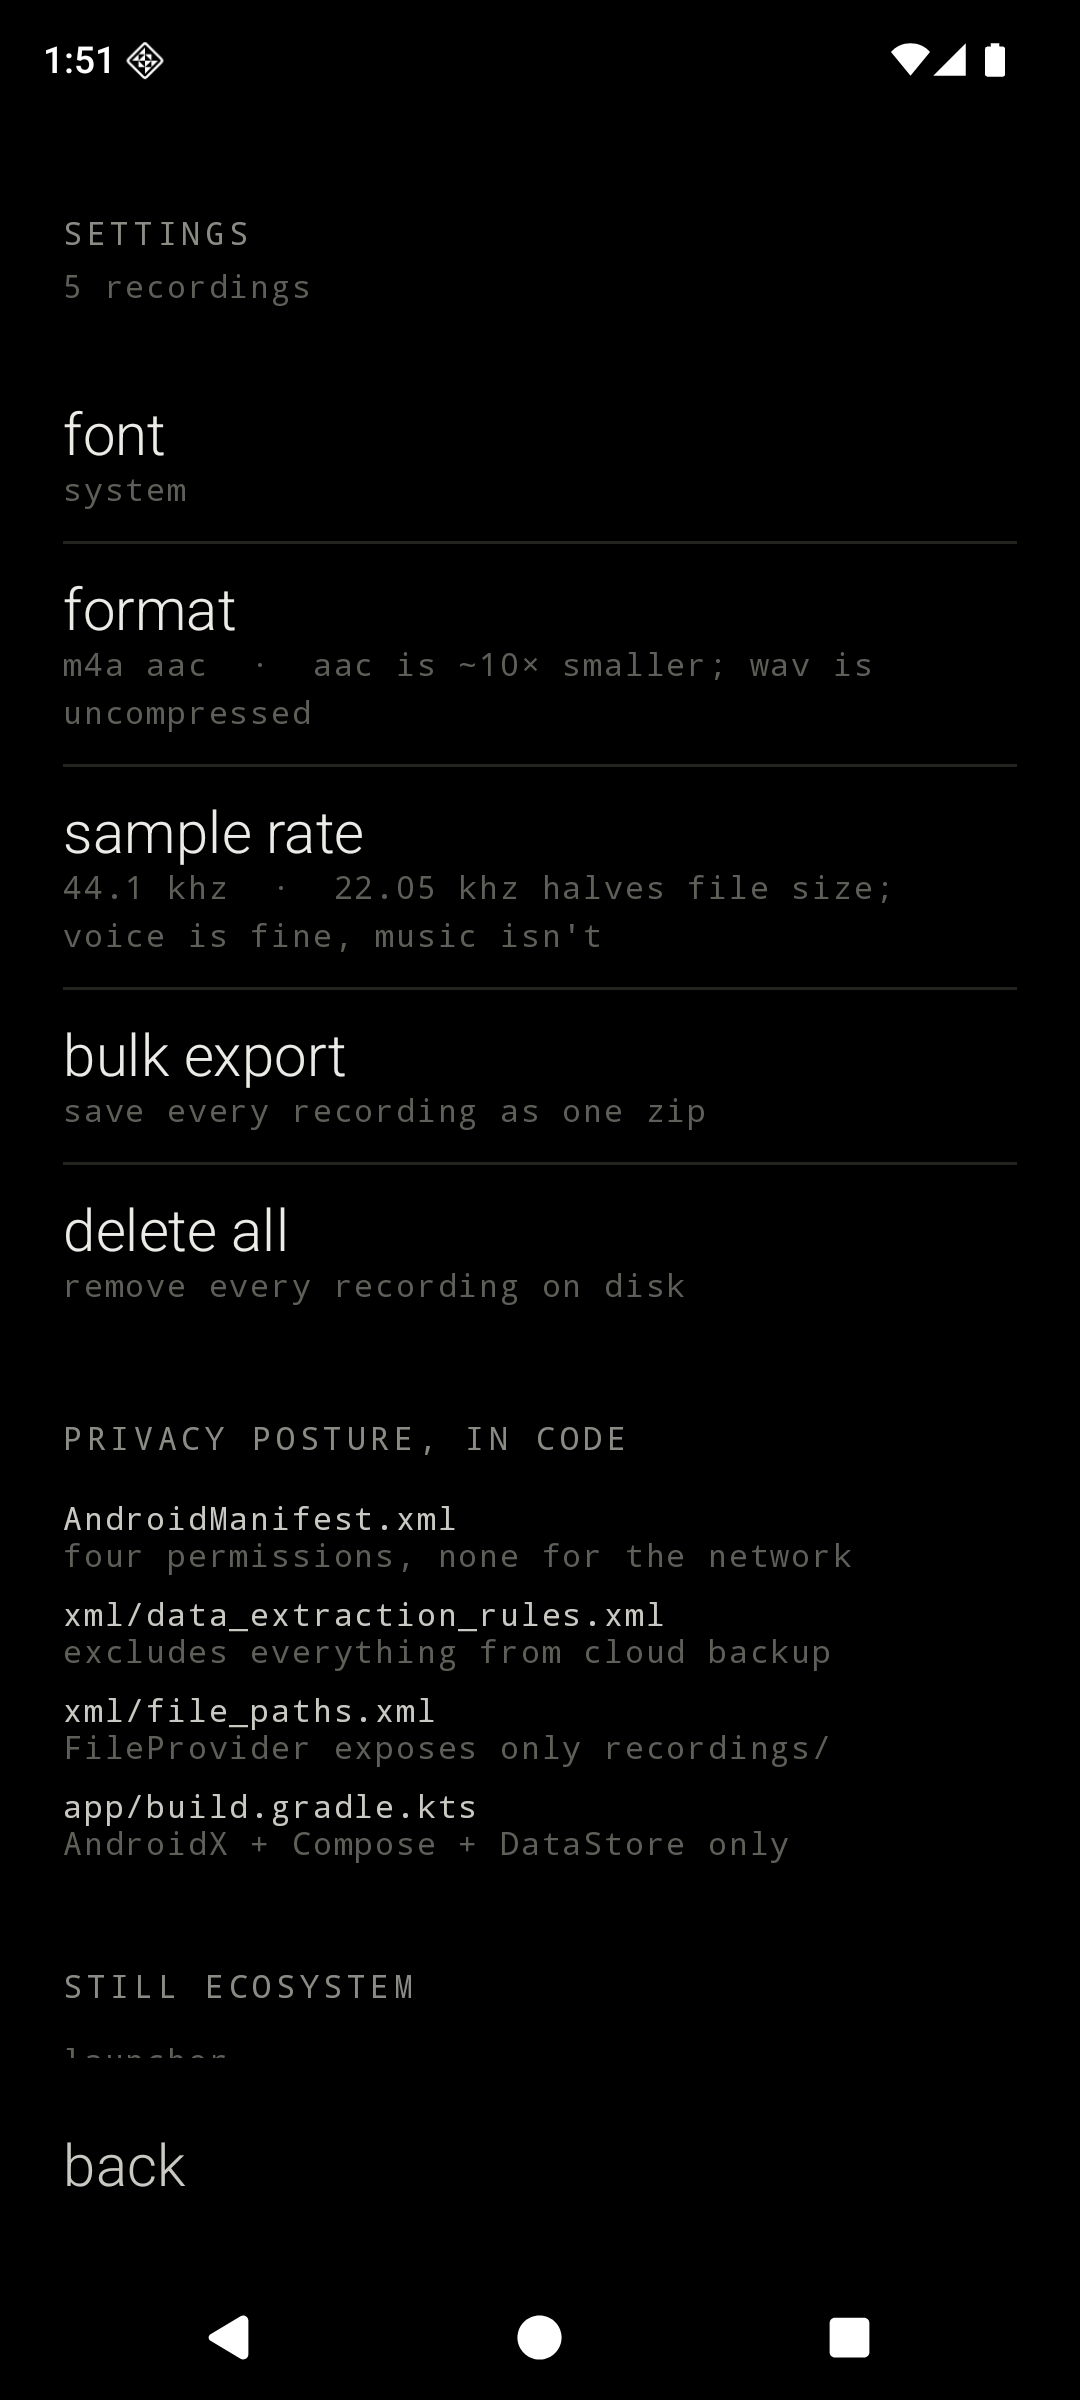
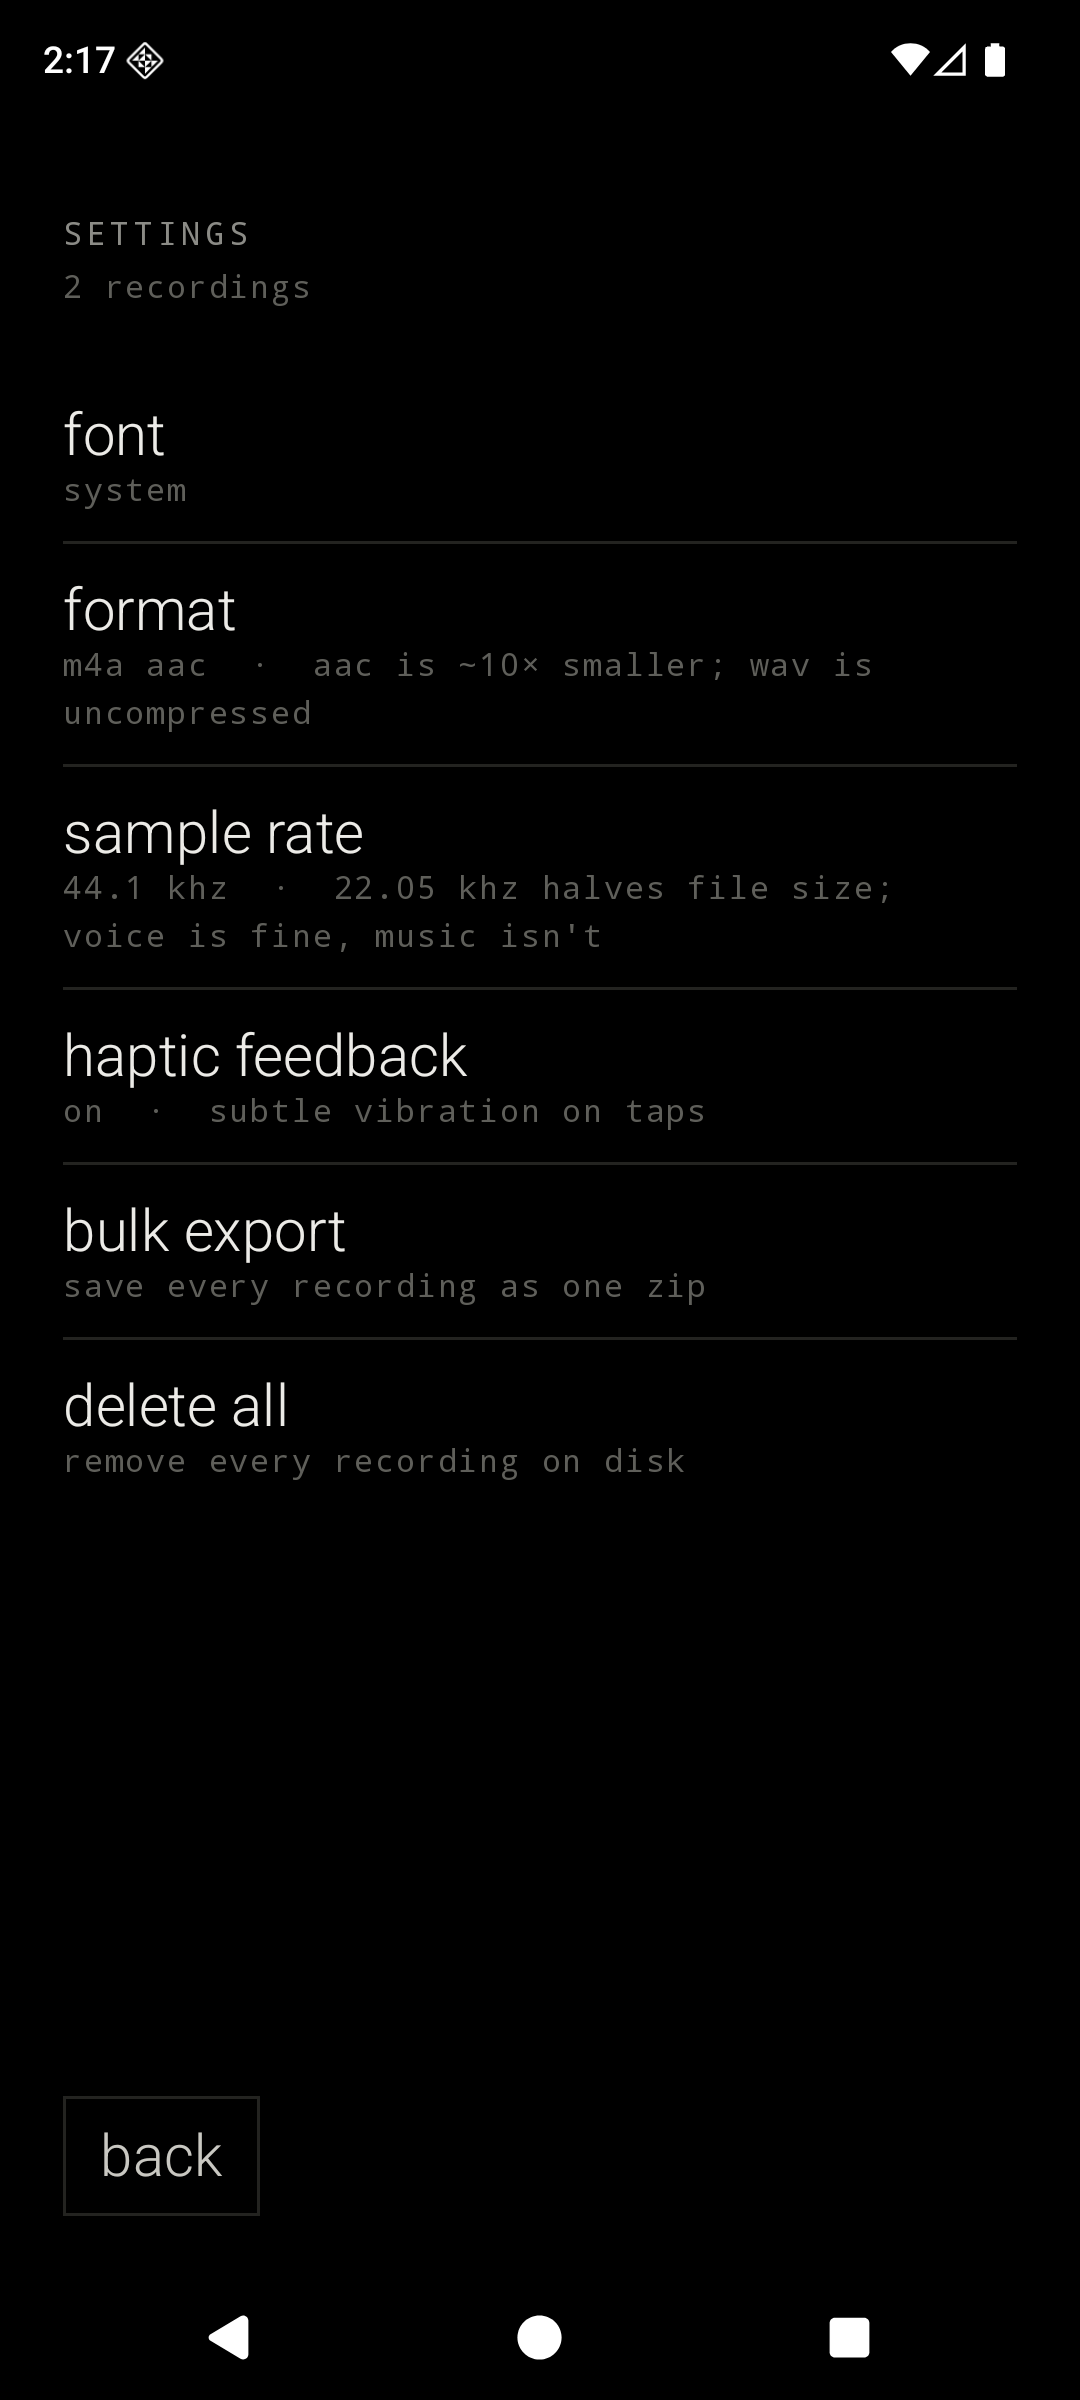
polish + fix: borders, haptics, post-record rename, save-bug
Polish:
- Strip PRIVACY POSTURE / STILL ECOSYSTEM marketing sections from settings;
  keep only functional rows (font, format, sample rate, bulk export, delete all).
- Add `bordered` flag to StillVerb so persistent bottom-bar verbs (settings on
  list, back/cancel/save on settings/rename) render as 1dp Hairline rectangles.
  Focal record/stop and inline row verbs stay borderless.
- Center `record` via Box; move `settings` to the right as a bordered secondary
  verb so the focal action sits truly in the middle of the bottom bar.
- Add toggleable haptic feedback preference (DataStore-backed) plus a
  process-wide LocalHaptics CompositionLocal that StillVerb invokes before
  every click. Toggling it off swaps the lambda for a no-op.

Fixes:
- BUG A: new recording missing from list. The service holds its own
  RecordingsRepository instance whose in-memory state is stale; adopt() now
  re-reads index.json from disk under the mutex before merging, and the UI
  reloads its repository when RecorderBus.finalized fires.
- BUG B: no quick rename after recording. Collect RecorderBus.finalized in
  StillVoiceApp and route to RenameScreen with the new id; cancel keeps the
  auto-derived label.

diff --git a/app/src/main/java/dev/chuds/stillvoice/ui/settings/SettingsScreen.kt b/app/src/main/java/dev/chuds/stillvoice/ui/settings/SettingsScreen.kt
@@ -41,6 +41,7 @@ fun SettingsScreen(
     onCycleFontPreset: () -> Unit,
     onCycleFormat: () -> Unit,
     onCycleSampleRate: () -> Unit,
+    onToggleHaptics: () -> Unit,
     onBulkExport: () -> Unit,
     onDeleteAll: () -> Unit,
     onBack: () -> Unit,
@@ -100,6 +101,15 @@ fun SettingsScreen(
             )
             StillDivider()
             StillMenuItem(
+                title = "haptic feedback",
+                subtitle = if (settings.hapticsEnabled)
+                    "on  ·  subtle vibration on taps"
+                else
+                    "off  ·  subtle vibration on taps",
+                onClick = onToggleHaptics,
+            )
+            StillDivider()
+            StillMenuItem(
                 title = "bulk export",
                 subtitle = if (recordingCount == 0) "no recordings yet" else
                     "save every recording as one zip",
@@ -123,29 +133,6 @@ fun SettingsScreen(
                 titleColor = if (deleteArmed) StillColors.SoftWhite else StillColors.SoftWhite,
             )
 
-            Spacer(Modifier.height(36.dp))
-            Text(
-                text = "PRIVACY POSTURE, IN CODE",
-                style = StillTypography.Kicker,
-                color = StillColors.Gray,
-            )
-            Spacer(Modifier.height(12.dp))
-            PrivacyLine("AndroidManifest.xml", "four permissions, none for the network")
-            PrivacyLine("xml/data_extraction_rules.xml", "excludes everything from cloud backup")
-            PrivacyLine("xml/file_paths.xml", "FileProvider exposes only recordings/")
-            PrivacyLine("app/build.gradle.kts", "AndroidX + Compose + DataStore only")
-
-            Spacer(Modifier.height(36.dp))
-            Text(
-                text = "STILL ECOSYSTEM",
-                style = StillTypography.Kicker,
-                color = StillColors.Gray,
-            )
-            Spacer(Modifier.height(12.dp))
-            EcosystemLine("launcher")
-            EcosystemLine("notes")
-            EcosystemLine("cal")
-
             Spacer(Modifier.height(64.dp))
         }
 
@@ -158,35 +145,14 @@ fun SettingsScreen(
                 .padding(horizontal = 24.dp, vertical = 22.dp),
             horizontalArrangement = Arrangement.Start,
         ) {
-            StillVerb(text = "back", onClick = onBack, color = StillColors.MutedWhite)
+            StillVerb(
+                text = "back",
+                onClick = onBack,
+                color = StillColors.MutedWhite,
+                bordered = true,
+            )
         }
     }
-}
-
-@Composable
-private fun PrivacyLine(file: String, what: String) {
-    Column(modifier = Modifier.padding(vertical = 4.dp)) {
-        Text(
-            text = file,
-            style = StillTypography.Caption,
-            color = StillColors.MutedWhite,
-        )
-        Text(
-            text = what,
-            style = StillTypography.Caption,
-            color = StillColors.DimGray,
-        )
-    }
-}
-
-@Composable
-private fun EcosystemLine(name: String) {
-    Text(
-        text = name,
-        style = StillTypography.Caption,
-        color = StillColors.DimGray,
-        modifier = Modifier.padding(vertical = 2.dp),
-    )
 }
 
 private fun formatLabel(format: AudioFormat): String = when (format) {

diff --git a/app/src/main/java/dev/chuds/stillvoice/StillVoiceApp.kt b/app/src/main/java/dev/chuds/stillvoice/StillVoiceApp.kt
@@ -15,7 +15,9 @@ import androidx.compose.runtime.mutableStateOf
 import androidx.compose.runtime.remember
 import androidx.compose.runtime.rememberCoroutineScope
 import androidx.compose.runtime.setValue
+import androidx.compose.ui.hapticfeedback.HapticFeedbackType
 import androidx.compose.ui.platform.LocalContext
+import androidx.compose.ui.platform.LocalHapticFeedback
 import androidx.lifecycle.compose.collectAsStateWithLifecycle
 import dev.chuds.stillvoice.data.AudioFormat
 import dev.chuds.stillvoice.data.PreferencesRepository
@@ -30,6 +32,7 @@ import dev.chuds.stillvoice.player.PlayerController
 import dev.chuds.stillvoice.recorder.LocalRecorderController
 import dev.chuds.stillvoice.recorder.RecorderController
 import dev.chuds.stillvoice.recorder.RecorderState
+import dev.chuds.stillvoice.ui.components.LocalHaptics
 import dev.chuds.stillvoice.ui.list.RecordingsListScreen
 import dev.chuds.stillvoice.ui.rename.RenameScreen
 import dev.chuds.stillvoice.ui.settings.SettingsScreen
@@ -77,6 +80,17 @@ fun StillVoiceApp(initialOpenRecordingState: Boolean = false) {
     var route by remember { mutableStateOf<Route>(Route.List) }
     var pendingRecordTrigger by remember { mutableStateOf(false) }
     var micGranted by remember { mutableStateOf(recorderController.hasMicPermission()) }
+
+    // Listen for the service-side finalize signal. The service owns its own
+    // RecordingsRepository instance, so the UI's repository must reload from
+    // disk to see the new recording. Then we navigate to RenameScreen so the
+    // user can name it immediately (cancel restores the auto-derived label).
+    LaunchedEffect(recorderController) {
+        recorderController.finalized.collect { id ->
+            recordingsRepository.load()
+            route = Route.Rename(id)
+        }
+    }
 
     val recordPermissionLauncher = rememberLauncherForActivityResult(
         ActivityResultContracts.RequestPermission(),
@@ -180,10 +194,22 @@ fun StillVoiceApp(initialOpenRecordingState: Boolean = false) {
 
     val typography = remember(settings.fontPreset) { stillTypographyFor(settings.fontPreset) }
 
+    // Bind LocalHaptics to the user's preference. StillVerb invokes this before
+    // the click; flipping the toggle replaces the lambda with a no-op.
+    val systemHaptics = LocalHapticFeedback.current
+    val hapticPerformer: () -> Unit = remember(settings.hapticsEnabled, systemHaptics) {
+        if (settings.hapticsEnabled) {
+            { systemHaptics.performHapticFeedback(HapticFeedbackType.TextHandleMove) }
+        } else {
+            { /* no-op */ }
+        }
+    }
+
     CompositionLocalProvider(
         LocalStillTypography provides typography,
         LocalRecorderController provides recorderController,
         LocalPlayerController provides playerController,
+        LocalHaptics provides hapticPerformer,
     ) {
         when (val current = route) {
             Route.List -> {
@@ -251,6 +277,11 @@ fun StillVoiceApp(initialOpenRecordingState: Boolean = false) {
                     onCycleSampleRate = {
                         scope.launch {
                             preferencesRepository.setSampleRate(cycleSampleRate(settings.sampleRateHz))
+                        }
+                    },
+                    onToggleHaptics = {
+                        scope.launch {
+                            preferencesRepository.setHapticsEnabled(!settings.hapticsEnabled)
                         }
                     },
                     onBulkExport = ::startBulkExport,

diff --git a/app/src/main/java/dev/chuds/stillvoice/ui/components/StillVerb.kt b/app/src/main/java/dev/chuds/stillvoice/ui/components/StillVerb.kt
@@ -1,22 +1,36 @@
 package dev.chuds.stillvoice.ui.components
 
 import androidx.compose.foundation.ExperimentalFoundationApi
+import androidx.compose.foundation.border
 import androidx.compose.foundation.combinedClickable
 import androidx.compose.foundation.interaction.MutableInteractionSource
 import androidx.compose.foundation.layout.padding
 import androidx.compose.material3.Text
 import androidx.compose.runtime.Composable
+import androidx.compose.runtime.staticCompositionLocalOf
 import androidx.compose.runtime.remember
 import androidx.compose.ui.Modifier
 import androidx.compose.ui.graphics.Color
+import androidx.compose.ui.graphics.RectangleShape
 import androidx.compose.ui.text.TextStyle
 import androidx.compose.ui.unit.dp
 import dev.chuds.stillvoice.ui.theme.StillColors
 import dev.chuds.stillvoice.ui.theme.StillTypography
 
 /**
+ * Process-wide haptic performer. Bound at the app root to either a real
+ * HapticFeedback call or a no-op based on the user's preference. Centralizing
+ * it here means individual verbs don't need to thread the preference through.
+ */
+val LocalHaptics = staticCompositionLocalOf<() -> Unit> { { /* no-op default */ } }
+
+/**
  * A lowercase verb in the still vocabulary (`record`, `stop`, `cancel`, `back`).
  * No ripple, no underline, no icon. Just a tappable Text.
+ *
+ * `bordered = true` draws a 1dp Hairline rectangle around the verb so it reads
+ * as a button — used for persistent bottom-bar verbs (settings/back). The
+ * record/stop focal action and verbs nested inside row taps stay borderless.
  */
 @OptIn(ExperimentalFoundationApi::class)
 @Composable
@@ -27,8 +41,10 @@ fun StillVerb(
     style: TextStyle = StillTypography.Menu,
     color: Color = StillColors.SoftWhite,
     enabled: Boolean = true,
+    bordered: Boolean = false,
 ) {
     val interactionSource = remember { MutableInteractionSource() }
+    val haptics = LocalHaptics.current
     Text(
         text = text,
         style = style,
@@ -38,8 +54,18 @@ fun StillVerb(
                 enabled = enabled,
                 interactionSource = interactionSource,
                 indication = null,
-                onClick = onClick,
+                onClick = {
+                    haptics()
+                    onClick()
+                },
             )
-            .padding(vertical = 6.dp),
+            .then(
+                if (bordered) Modifier.border(1.dp, StillColors.Hairline, RectangleShape)
+                else Modifier
+            )
+            .padding(
+                horizontal = if (bordered) 14.dp else 0.dp,
+                vertical = if (bordered) 10.dp else 6.dp,
+            ),
     )
 }

diff --git a/app/src/main/java/dev/chuds/stillvoice/ui/list/RecordingBar.kt b/app/src/main/java/dev/chuds/stillvoice/ui/list/RecordingBar.kt
@@ -1,14 +1,11 @@
 package dev.chuds.stillvoice.ui.list
 
-import androidx.compose.foundation.layout.Arrangement
+import androidx.compose.foundation.layout.Box
 import androidx.compose.foundation.layout.Column
-import androidx.compose.foundation.layout.Row
 import androidx.compose.foundation.layout.Spacer
 import androidx.compose.foundation.layout.fillMaxWidth
 import androidx.compose.foundation.layout.height
 import androidx.compose.foundation.layout.padding
-import androidx.compose.foundation.layout.size
-import androidx.compose.foundation.layout.width
 import androidx.compose.material3.Text
 import androidx.compose.runtime.Composable
 import androidx.compose.runtime.LaunchedEffect
@@ -77,23 +74,24 @@ fun RecordingBar(
                 )
             }
             RecorderState.Idle -> {
-                Row(
-                    modifier = Modifier.fillMaxWidth(),
-                    horizontalArrangement = Arrangement.SpaceBetween,
-                    verticalAlignment = Alignment.CenterVertically,
-                ) {
+                // record is the focal action and stays truly centered via Box;
+                // settings sits on the right as a bordered secondary verb so
+                // it reads as a button without competing with record.
+                Box(modifier = Modifier.fillMaxWidth()) {
+                    StillVerb(
+                        text = "record",
+                        onClick = onRecord,
+                        color = StillColors.SoftWhite,
+                        modifier = Modifier.align(Alignment.Center),
+                    )
                     StillVerb(
                         text = "settings",
                         onClick = onSettings,
                         style = StillTypography.Caption,
                         color = StillColors.MutedWhite,
+                        bordered = true,
+                        modifier = Modifier.align(Alignment.CenterEnd),
                     )
-                    StillVerb(
-                        text = "record",
-                        onClick = onRecord,
-                        color = StillColors.SoftWhite,
-                    )
-                    Spacer(Modifier.size(1.dp))
                 }
                 if (!micGranted) {
                     Text(

diff --git a/app/src/main/java/dev/chuds/stillvoice/data/PreferencesRepository.kt b/app/src/main/java/dev/chuds/stillvoice/data/PreferencesRepository.kt
@@ -3,6 +3,7 @@ package dev.chuds.stillvoice.data
 import android.content.Context
 import androidx.datastore.core.DataStore
 import androidx.datastore.preferences.core.Preferences
+import androidx.datastore.preferences.core.booleanPreferencesKey
 import androidx.datastore.preferences.core.edit
 import androidx.datastore.preferences.core.emptyPreferences
 import androidx.datastore.preferences.core.intPreferencesKey
@@ -20,11 +21,13 @@ private val Context.preferencesDataStore: DataStore<Preferences> by preferencesD
 private val FONT_PRESET_KEY = stringPreferencesKey("font_preset")
 private val FORMAT_KEY = stringPreferencesKey("format")
 private val SAMPLE_RATE_KEY = intPreferencesKey("sample_rate_hz")
+private val HAPTICS_ENABLED_KEY = booleanPreferencesKey("haptics_enabled")
 
 data class VoiceSettings(
     val fontPreset: FontPreset = FontPreset.System,
     val format: AudioFormat = AudioFormat.M4A_AAC,
     val sampleRateHz: Int = 44_100,
+    val hapticsEnabled: Boolean = true,
 )
 
 class PreferencesRepository(private val context: Context) {
@@ -42,6 +45,7 @@ class PreferencesRepository(private val context: Context) {
                     ?.let { runCatching { AudioFormat.valueOf(it) }.getOrNull() }
                     ?: AudioFormat.M4A_AAC,
                 sampleRateHz = prefs[SAMPLE_RATE_KEY] ?: 44_100,
+                hapticsEnabled = prefs[HAPTICS_ENABLED_KEY] ?: true,
             )
         }
 
@@ -55,5 +59,9 @@ class PreferencesRepository(private val context: Context) {
 
     suspend fun setSampleRate(hz: Int) {
         context.preferencesDataStore.edit { it[SAMPLE_RATE_KEY] = hz }
+    }
+
+    suspend fun setHapticsEnabled(enabled: Boolean) {
+        context.preferencesDataStore.edit { it[HAPTICS_ENABLED_KEY] = enabled }
     }
 }

diff --git a/app/src/main/java/dev/chuds/stillvoice/data/RecordingsRepository.kt b/app/src/main/java/dev/chuds/stillvoice/data/RecordingsRepository.kt
@@ -52,10 +52,16 @@ class RecordingsRepository(context: Context) {
     /**
      * Called by RecordingService after MediaRecorder.stop() succeeds. Adds the
      * new recording to the index and emits the new list.
+     *
+     * Re-reads index.json from disk under the mutex before merging: the service
+     * holds its own RecordingsRepository instance whose in-memory _recordings
+     * is empty on a cold start, so trusting the in-memory value would clobber
+     * the index with just the new recording.
      */
     suspend fun adopt(recording: Recording): Recording = withContext(Dispatchers.IO) {
         ioMutex.withLock {
-            val next = listOf(recording) + _recordings.value.filterNot { it.id == recording.id }
+            val onDisk = readIndex() ?: emptyList()
+            val next = listOf(recording) + onDisk.filterNot { it.id == recording.id }
             writeIndex(next)
             _recordings.value = next.sortedDescending()
             recording

diff --git a/app/src/main/java/dev/chuds/stillvoice/ui/rename/RenameScreen.kt b/app/src/main/java/dev/chuds/stillvoice/ui/rename/RenameScreen.kt
@@ -102,10 +102,16 @@ fun RenameScreen(
                 .padding(horizontal = 24.dp, vertical = 22.dp),
             horizontalArrangement = Arrangement.SpaceBetween,
         ) {
-            StillVerb(text = "cancel", onClick = onCancel, color = StillColors.MutedWhite)
+            StillVerb(
+                text = "cancel",
+                onClick = onCancel,
+                color = StillColors.MutedWhite,
+                bordered = true,
+            )
             StillVerb(
                 text = "save",
                 onClick = { onSave(draft.trim().takeIf { it.isNotEmpty() }) },
+                bordered = true,
             )
         }
     }